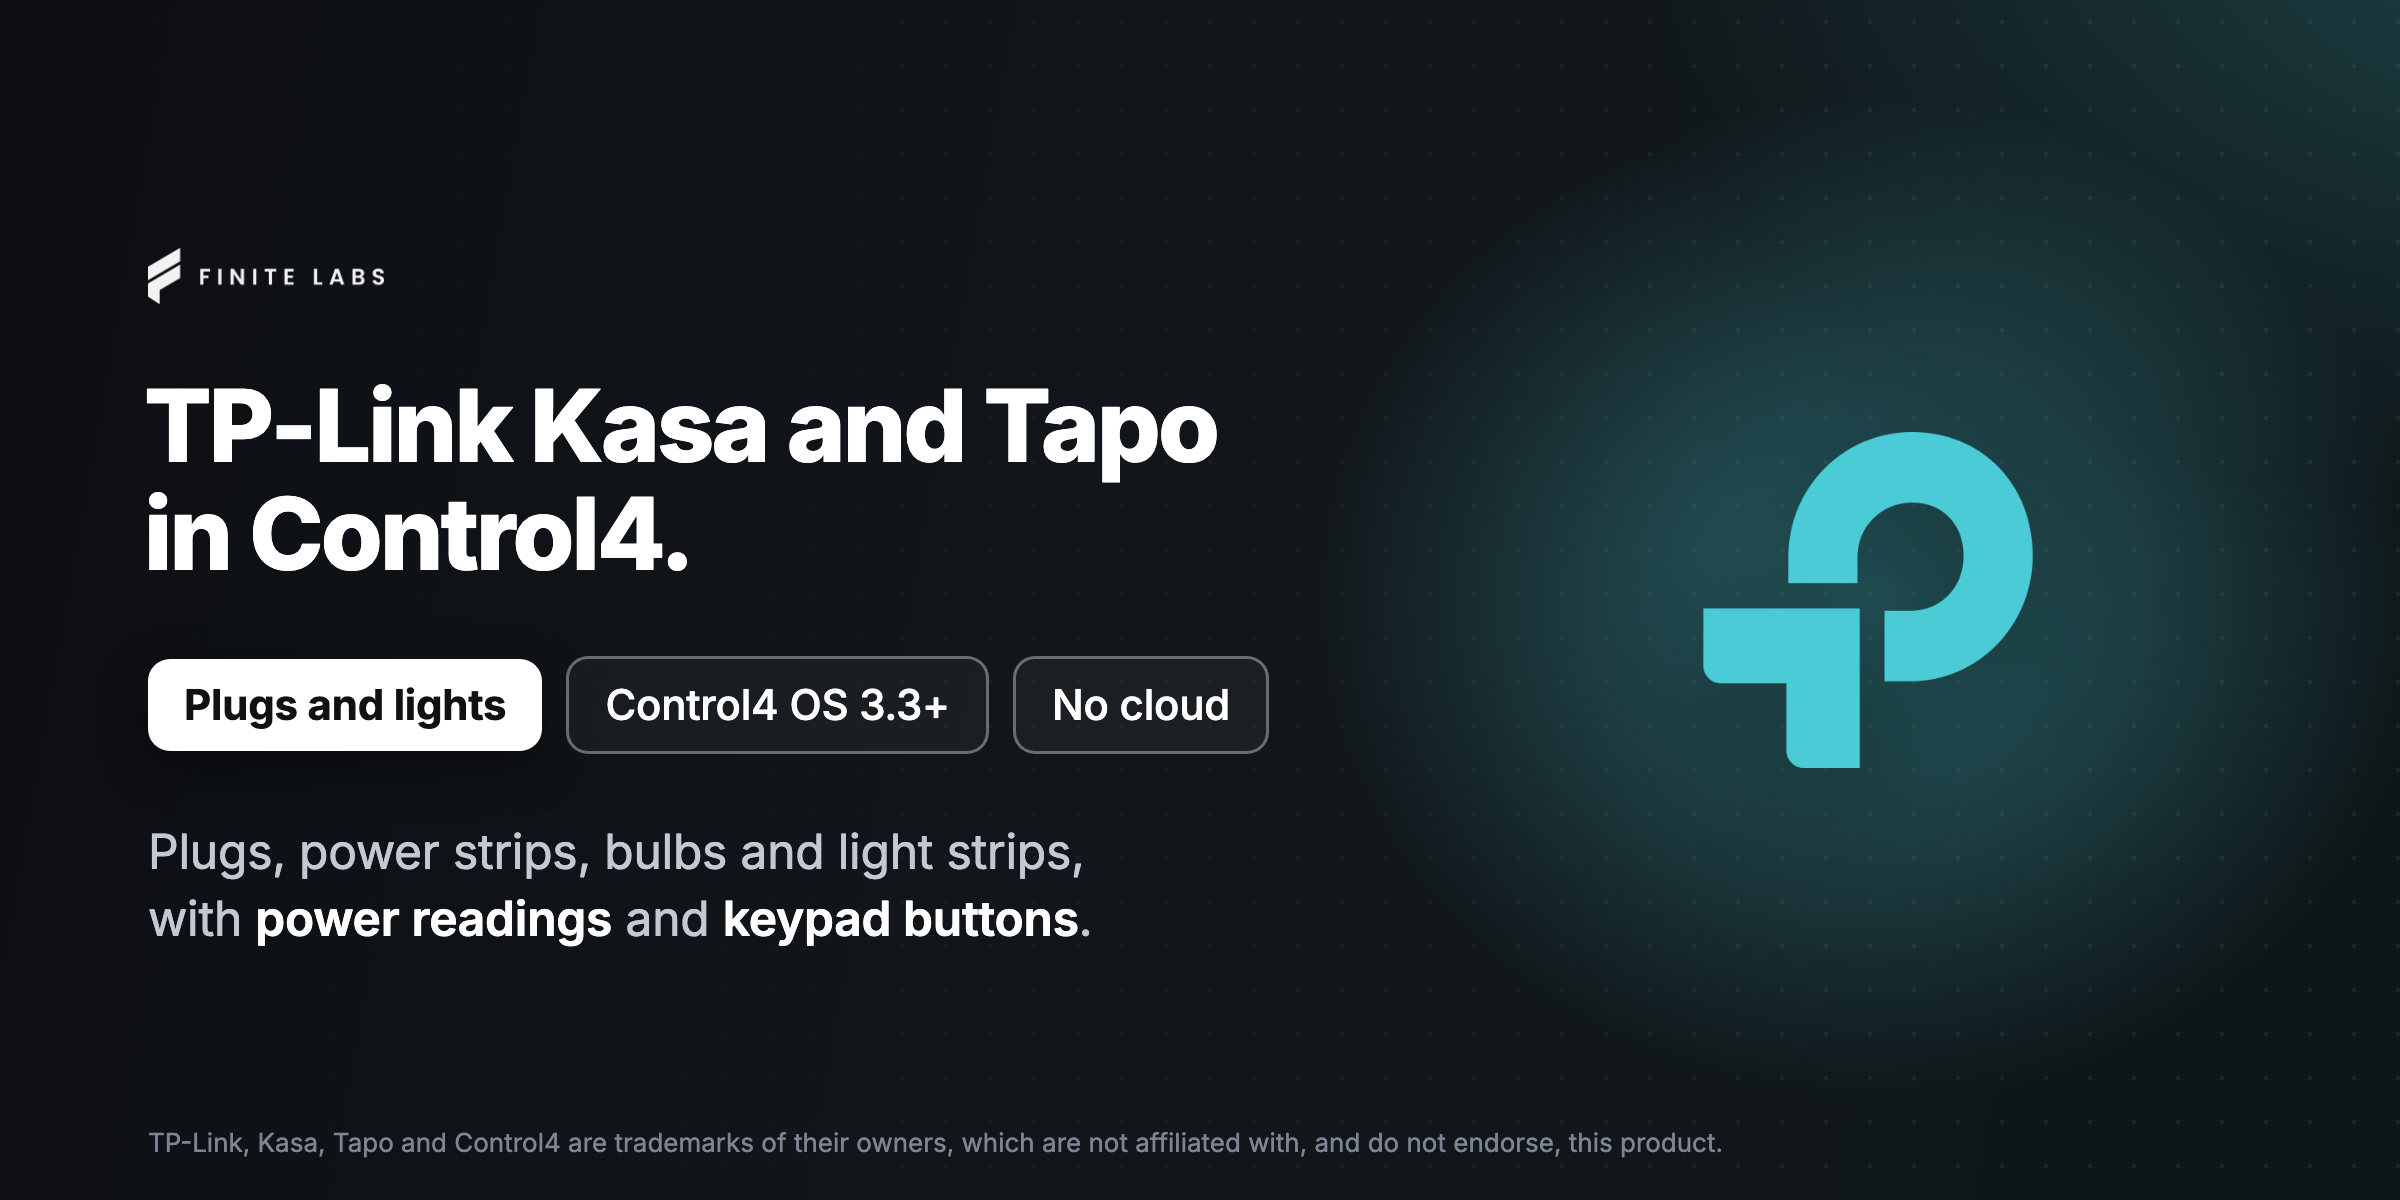
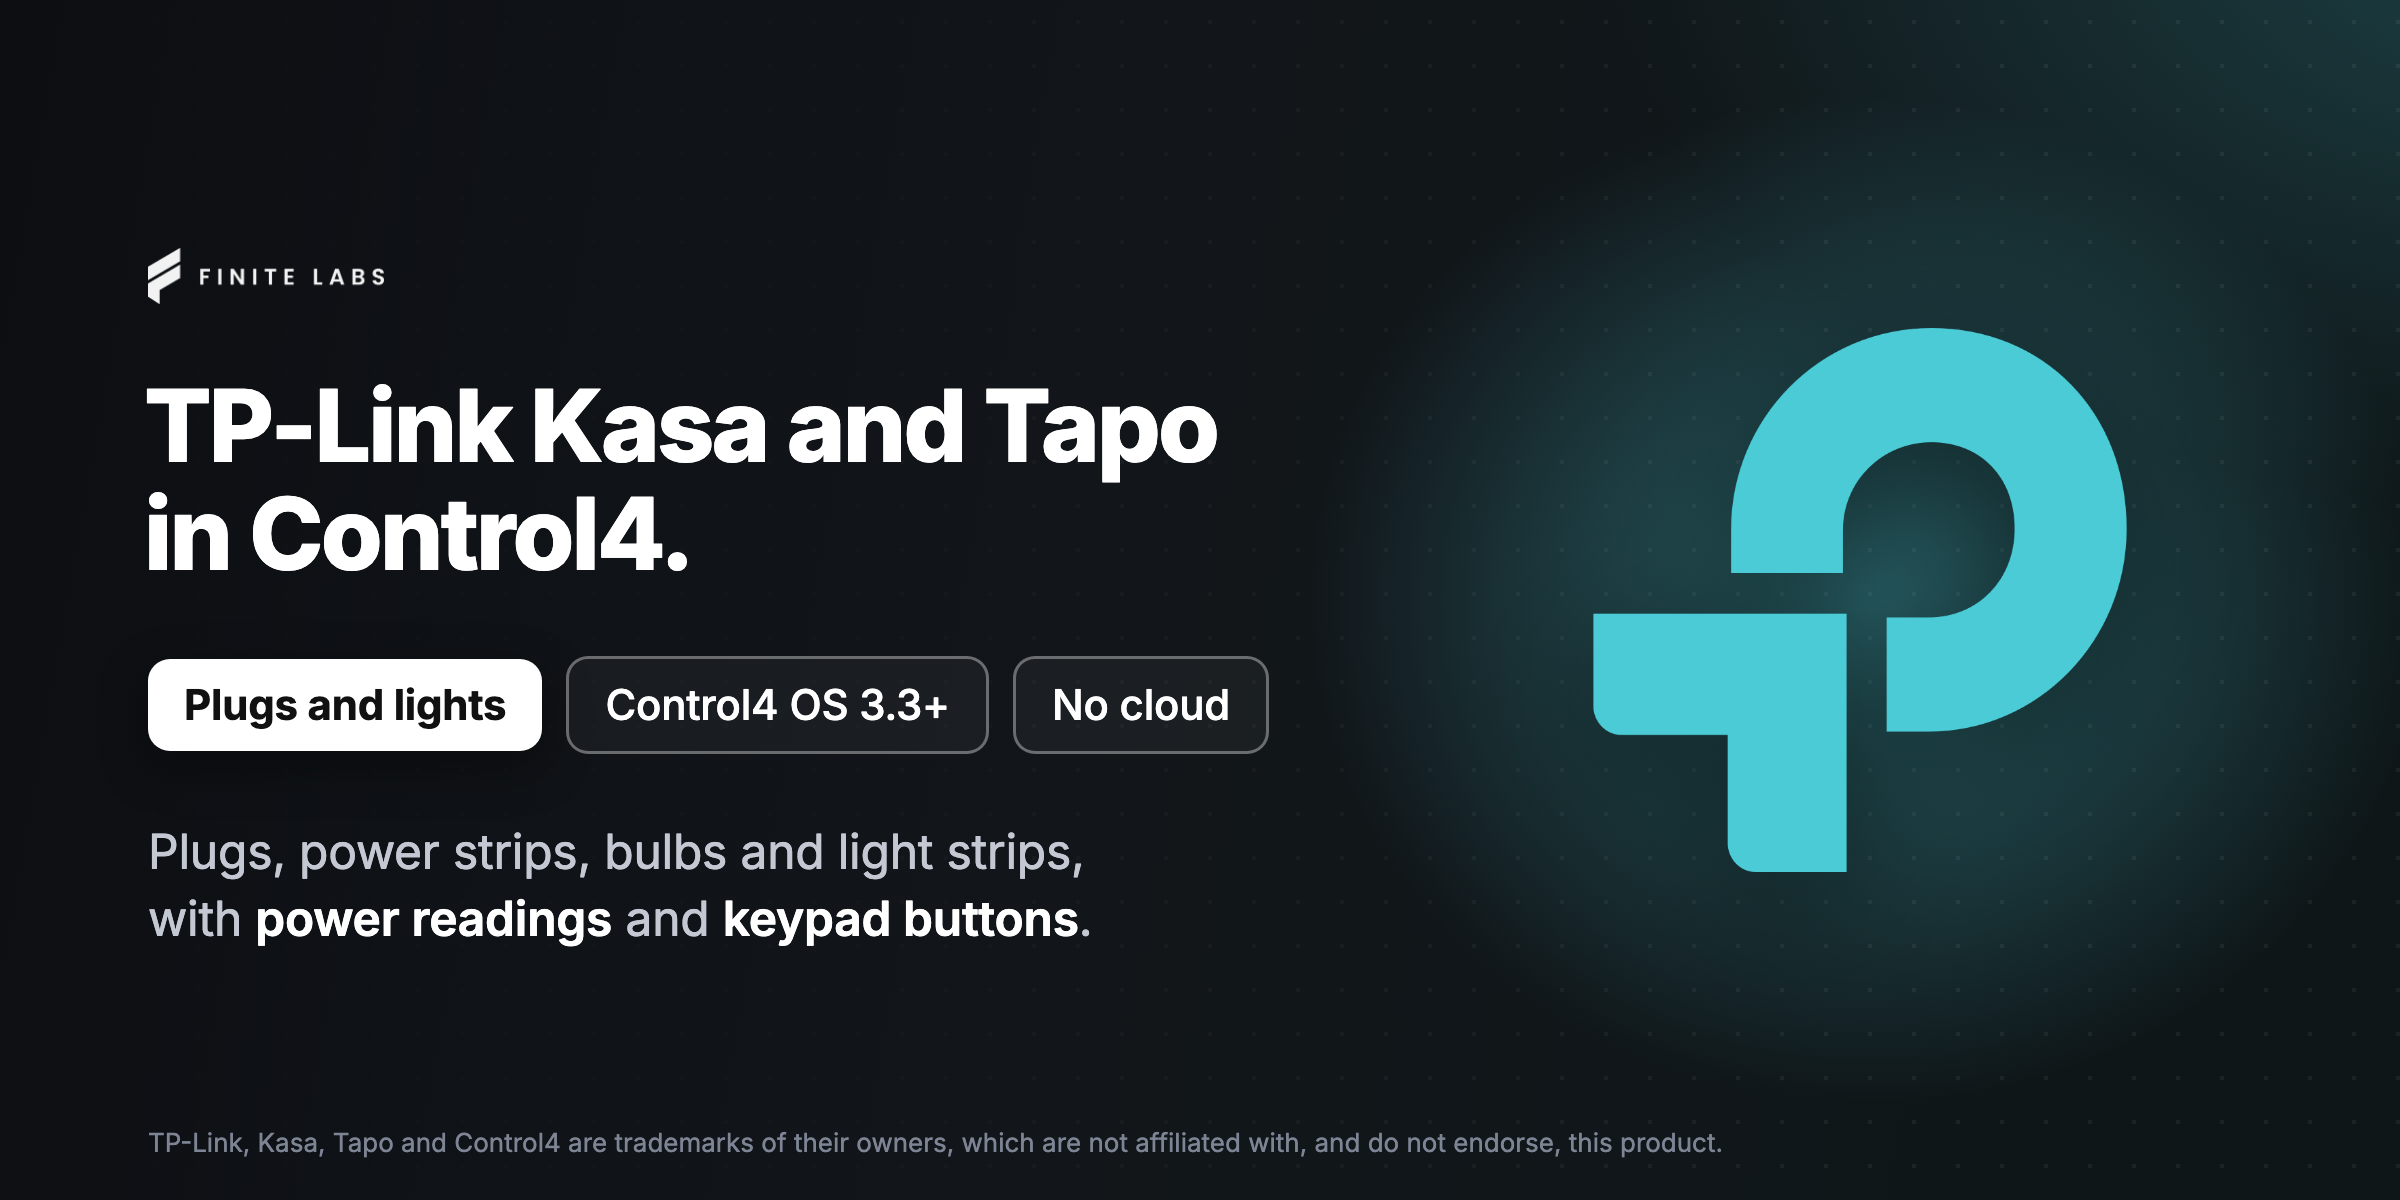
chore: the spotlight and launch-post marks are sized up to match across the drivers

Changed region(s): [[0.6562, 0.2775, 0.9062, 0.74]]

diff --git a/resources/drivercentral/banners/spotlight-4096x848.html b/resources/drivercentral/banners/spotlight-4096x848.html
@@ -19,7 +19,7 @@
   .chip.line { color: #fff; border: 2px solid rgba(255,255,255,0.35); background: rgba(255,255,255,0.04); font-weight: 500; }
   .sub { position: absolute; left: 104px; top: 334px; color: #c3c8d2; font-size: 34px; font-weight: 400; letter-spacing: -0.005em; white-space: nowrap; }
   .sub em { font-style: normal; color: #fff; font-weight: 600; }
-  .mark { position: absolute; left: 1605px; top: 107px; width: 210px; height: 210px; filter: drop-shadow(0 18px 40px rgba(0,0,0,0.45)); }
+  .mark { position: absolute; left: 1586px; top: 88px; width: 247px; height: 247px; filter: drop-shadow(0 18px 40px rgba(0,0,0,0.45)); }
   .note { position: absolute; left: 104px; bottom: 14px; color: #7d8494; font-size: 15px; letter-spacing: 0; white-space: nowrap; }
 </style></head>
 <body>

diff --git a/resources/drivercentral/banners/launch-post-2400x1200.html b/resources/drivercentral/banners/launch-post-2400x1200.html
@@ -20,7 +20,7 @@
   .chip.line { color: #fff; border: 1.5px solid rgba(255,255,255,0.35); background: rgba(255,255,255,0.04); font-weight: 500; }
   .sub { margin: 32px 0 0 2px; color: #c3c8d2; font-size: 24px; line-height: 1.4; font-weight: 400; letter-spacing: -0.005em; }
   .sub em { font-style: normal; color: #fff; font-weight: 600; }
-  .mark { position: absolute; left: 850px; top: 216px; width: 168px; height: 168px; filter: drop-shadow(0 14px 32px rgba(0,0,0,0.45)); }
+  .mark { position: absolute; left: 794px; top: 164px; width: 272px; height: 272px; filter: drop-shadow(0 14px 32px rgba(0,0,0,0.45)); }
   .note { position: absolute; left: 74px; right: 74px; bottom: 20px; color: #7d8494; font-size: 13px; line-height: 1.35; }
 </style></head>
 <body>
